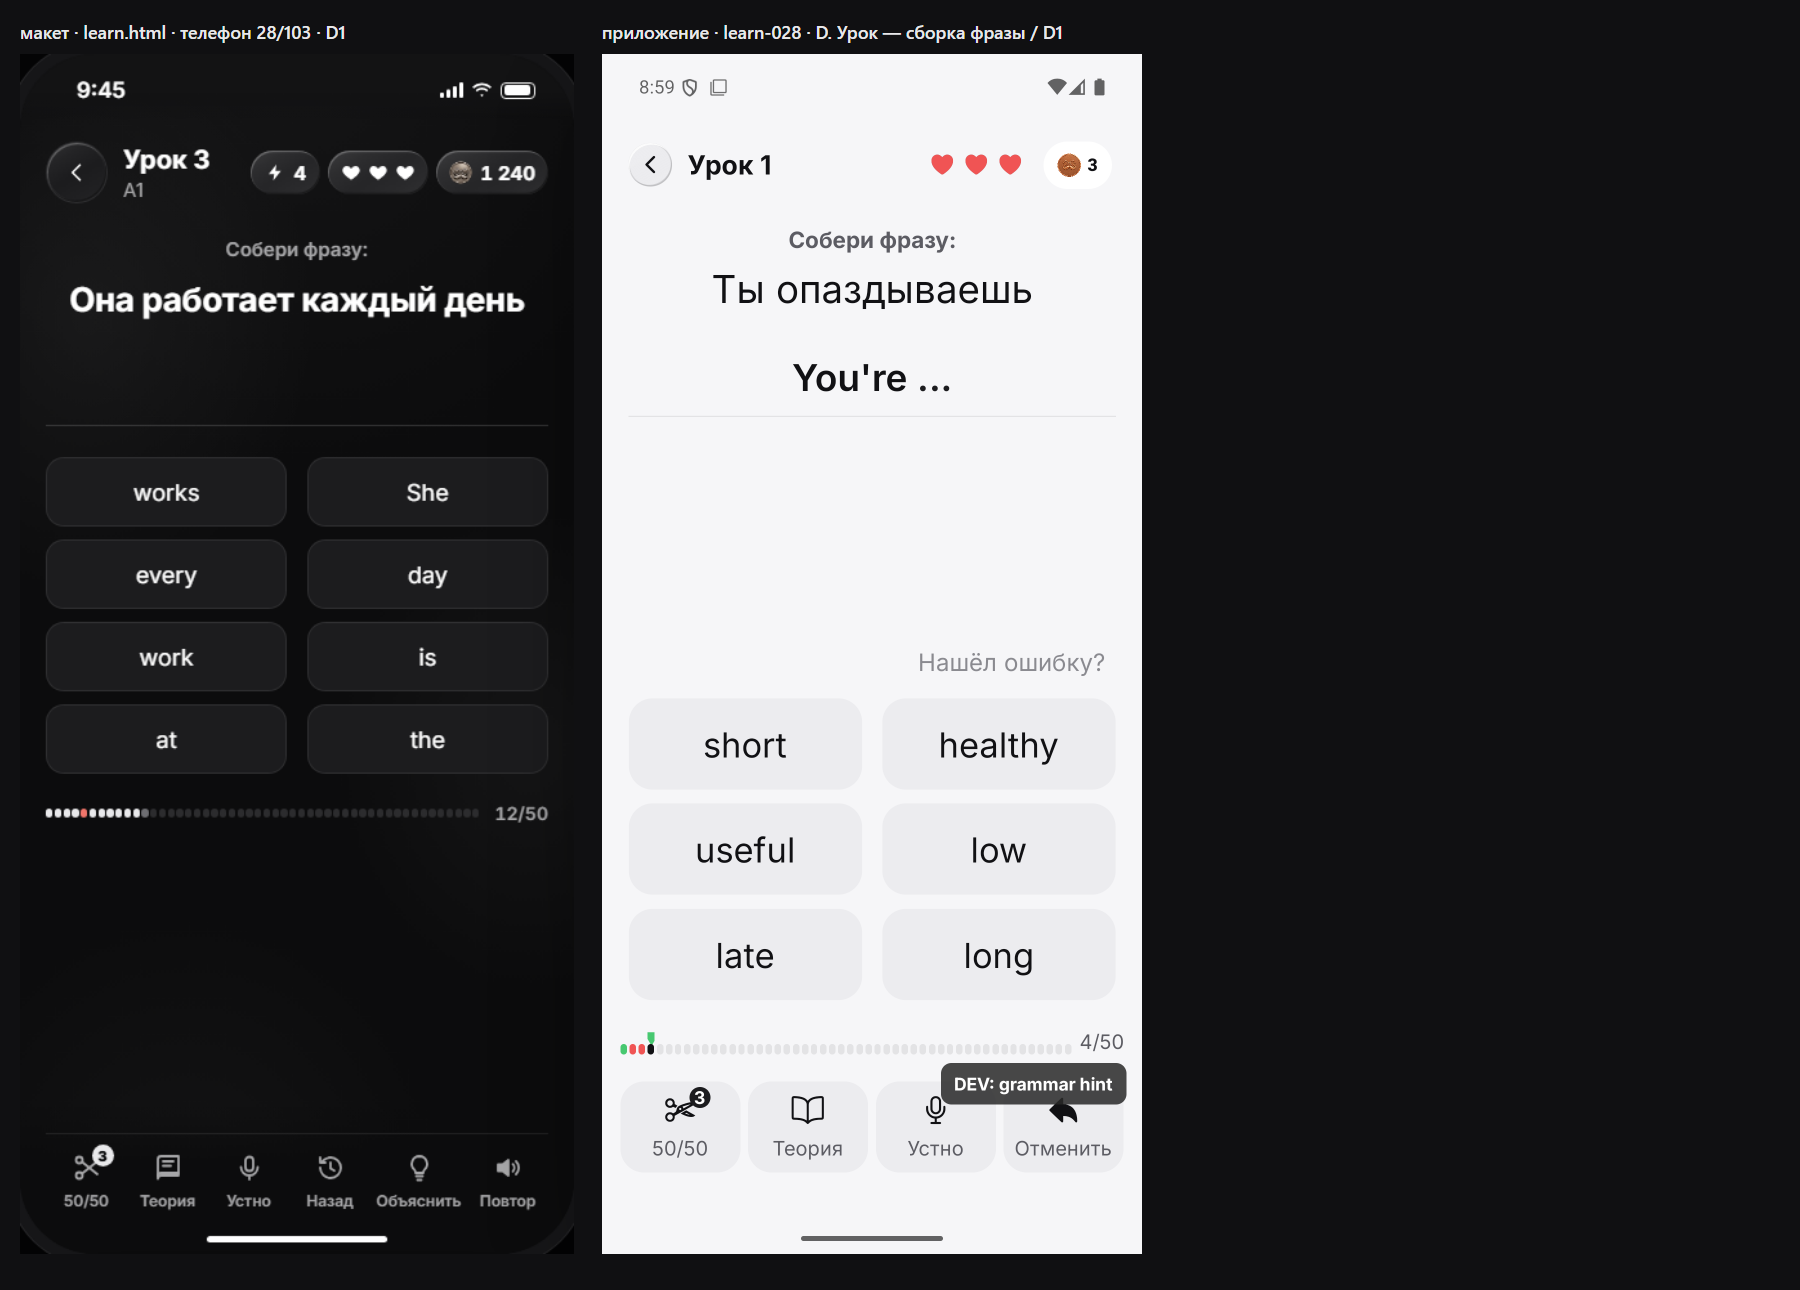
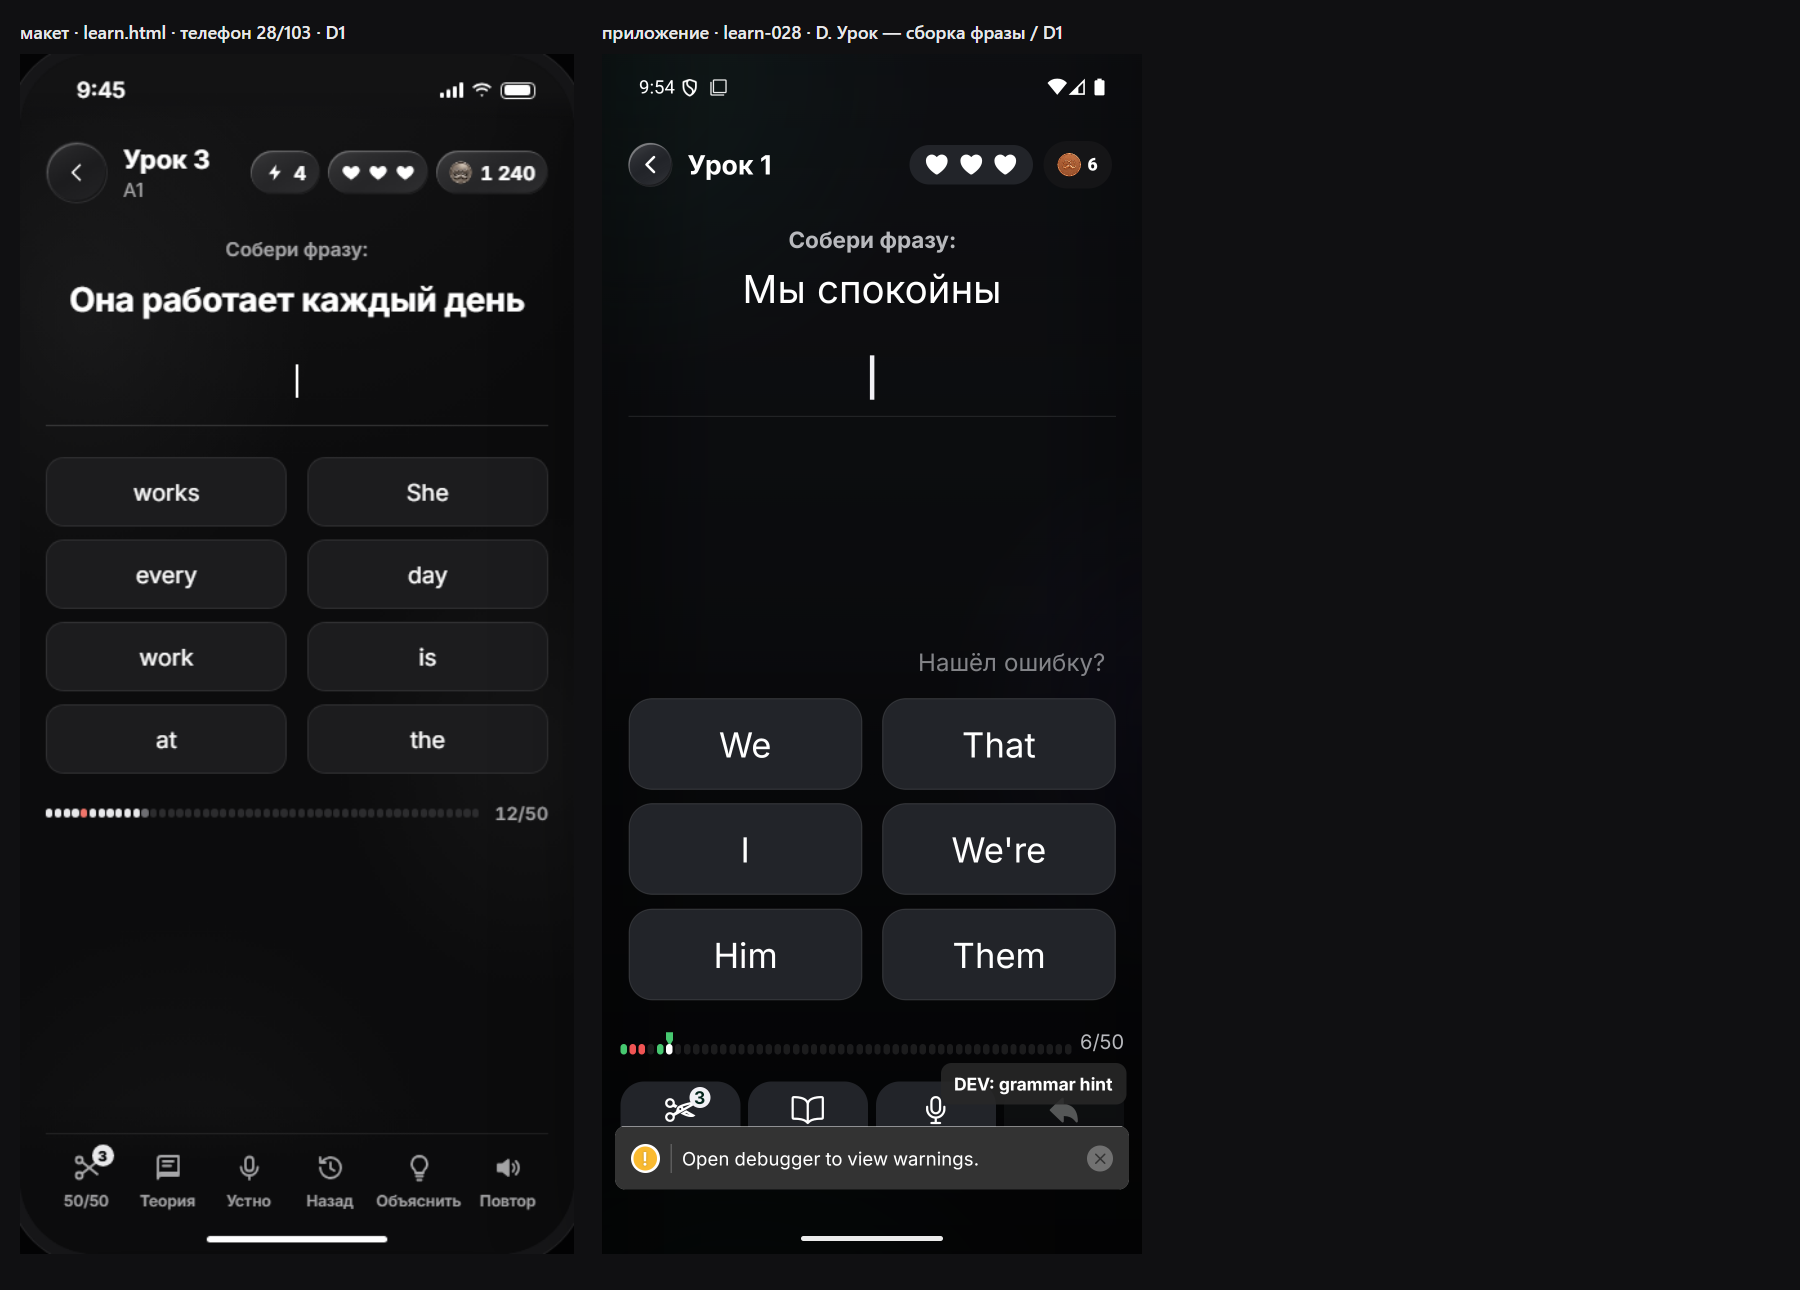
docs(parity): урок 1 на новой сборке — промежуточно

Changed region(s): [[0.3111, 0.031, 0.6533, 0.9922]]

diff --git a/docs/phraseman-2.0/INBOX_COORDINATOR_FROM_SVERKA.md b/docs/phraseman-2.0/INBOX_COORDINATOR_FROM_SVERKA.md
@@ -511,3 +511,9 @@ cards-section-032 после 1d993b5c4 почти совпадает (шторк
 - ТЁПЛО: initial=false out=/(tabs)/video (дважды) и `layout:deeplink_tabs_replace target=/(tabs)/video` → вкладка «Видео» открывается ✅ (экран «Видео»: «Professor Lingman», «Главная/Плейлисты», «Наборы из видео», «Новые видео»).
 **[DIALOGS-OPEN] холодный вход в «Диалоги»:** hub:initial_state 44 мс, projection 133 мс, first_commit 445 мс от рендера; но `home:js_gap` gapMs=2707 (frame 1) и gapMs=2324 (frame 2, sinceMount 5031 мс) — JS-поток стоит ~2,7 и ~2,3 с подряд на Главной при открытии «Диалогов» → это и есть пустой кадр ~3 с: данные готовы за 0,4 с, но JS занят. Файлы: `DIALOGS-OPEN_cold2_2026-10-10.txt`, `DEEPLINK_video_2_2026-10-10.txt`.
 Дальше: переснимаю урок 1 в обеих темах на новой сборке (выключаю autoAdvance).
+
+## 2026-10-10 ~21:58 · СВЕРКА — урок 1 на новой сборке (тёмная), промежуточно
+- Меню урока (learn-020): строки теперь «Перепройти / Слова урока / Неправильные глаголы / Теория» ✅ (как просил Дизайн). Всё ещё НЕТ: пилюли ⚡ в шапке, полосы «N/50» (вместо неё три звезды «2 / 50 фраз»), карточки «Небольшой совет».
+- «Собери фразу» (028/029): шапка теперь «Урок 1 · [пилюля из 3 сердец] · монеты 6» ✅; пилюли ⚡ нет (Plus, возможно намеренно). Кнопка «Проверить» зелёная внизу справа; «Назад/Объясн/Дальше» не видел — нужен кадр после проверки.
+- Настройки обучения: «Автопереход после ответа» уже ВЫКЛ (серый), «Автопроверка» ВЫКЛ — значит прежний автопереход через 2,5 с шёл не от настройки.
+- ⚠ 21:57 adb перестал отвечать (зависли `adb devices` и `shell`), эмулятор, похоже, упал; написала сессии «Эмулятор». Кадр «Верно» на новой сборке и светлая пересъёмка урока 1 — после подъёма.
